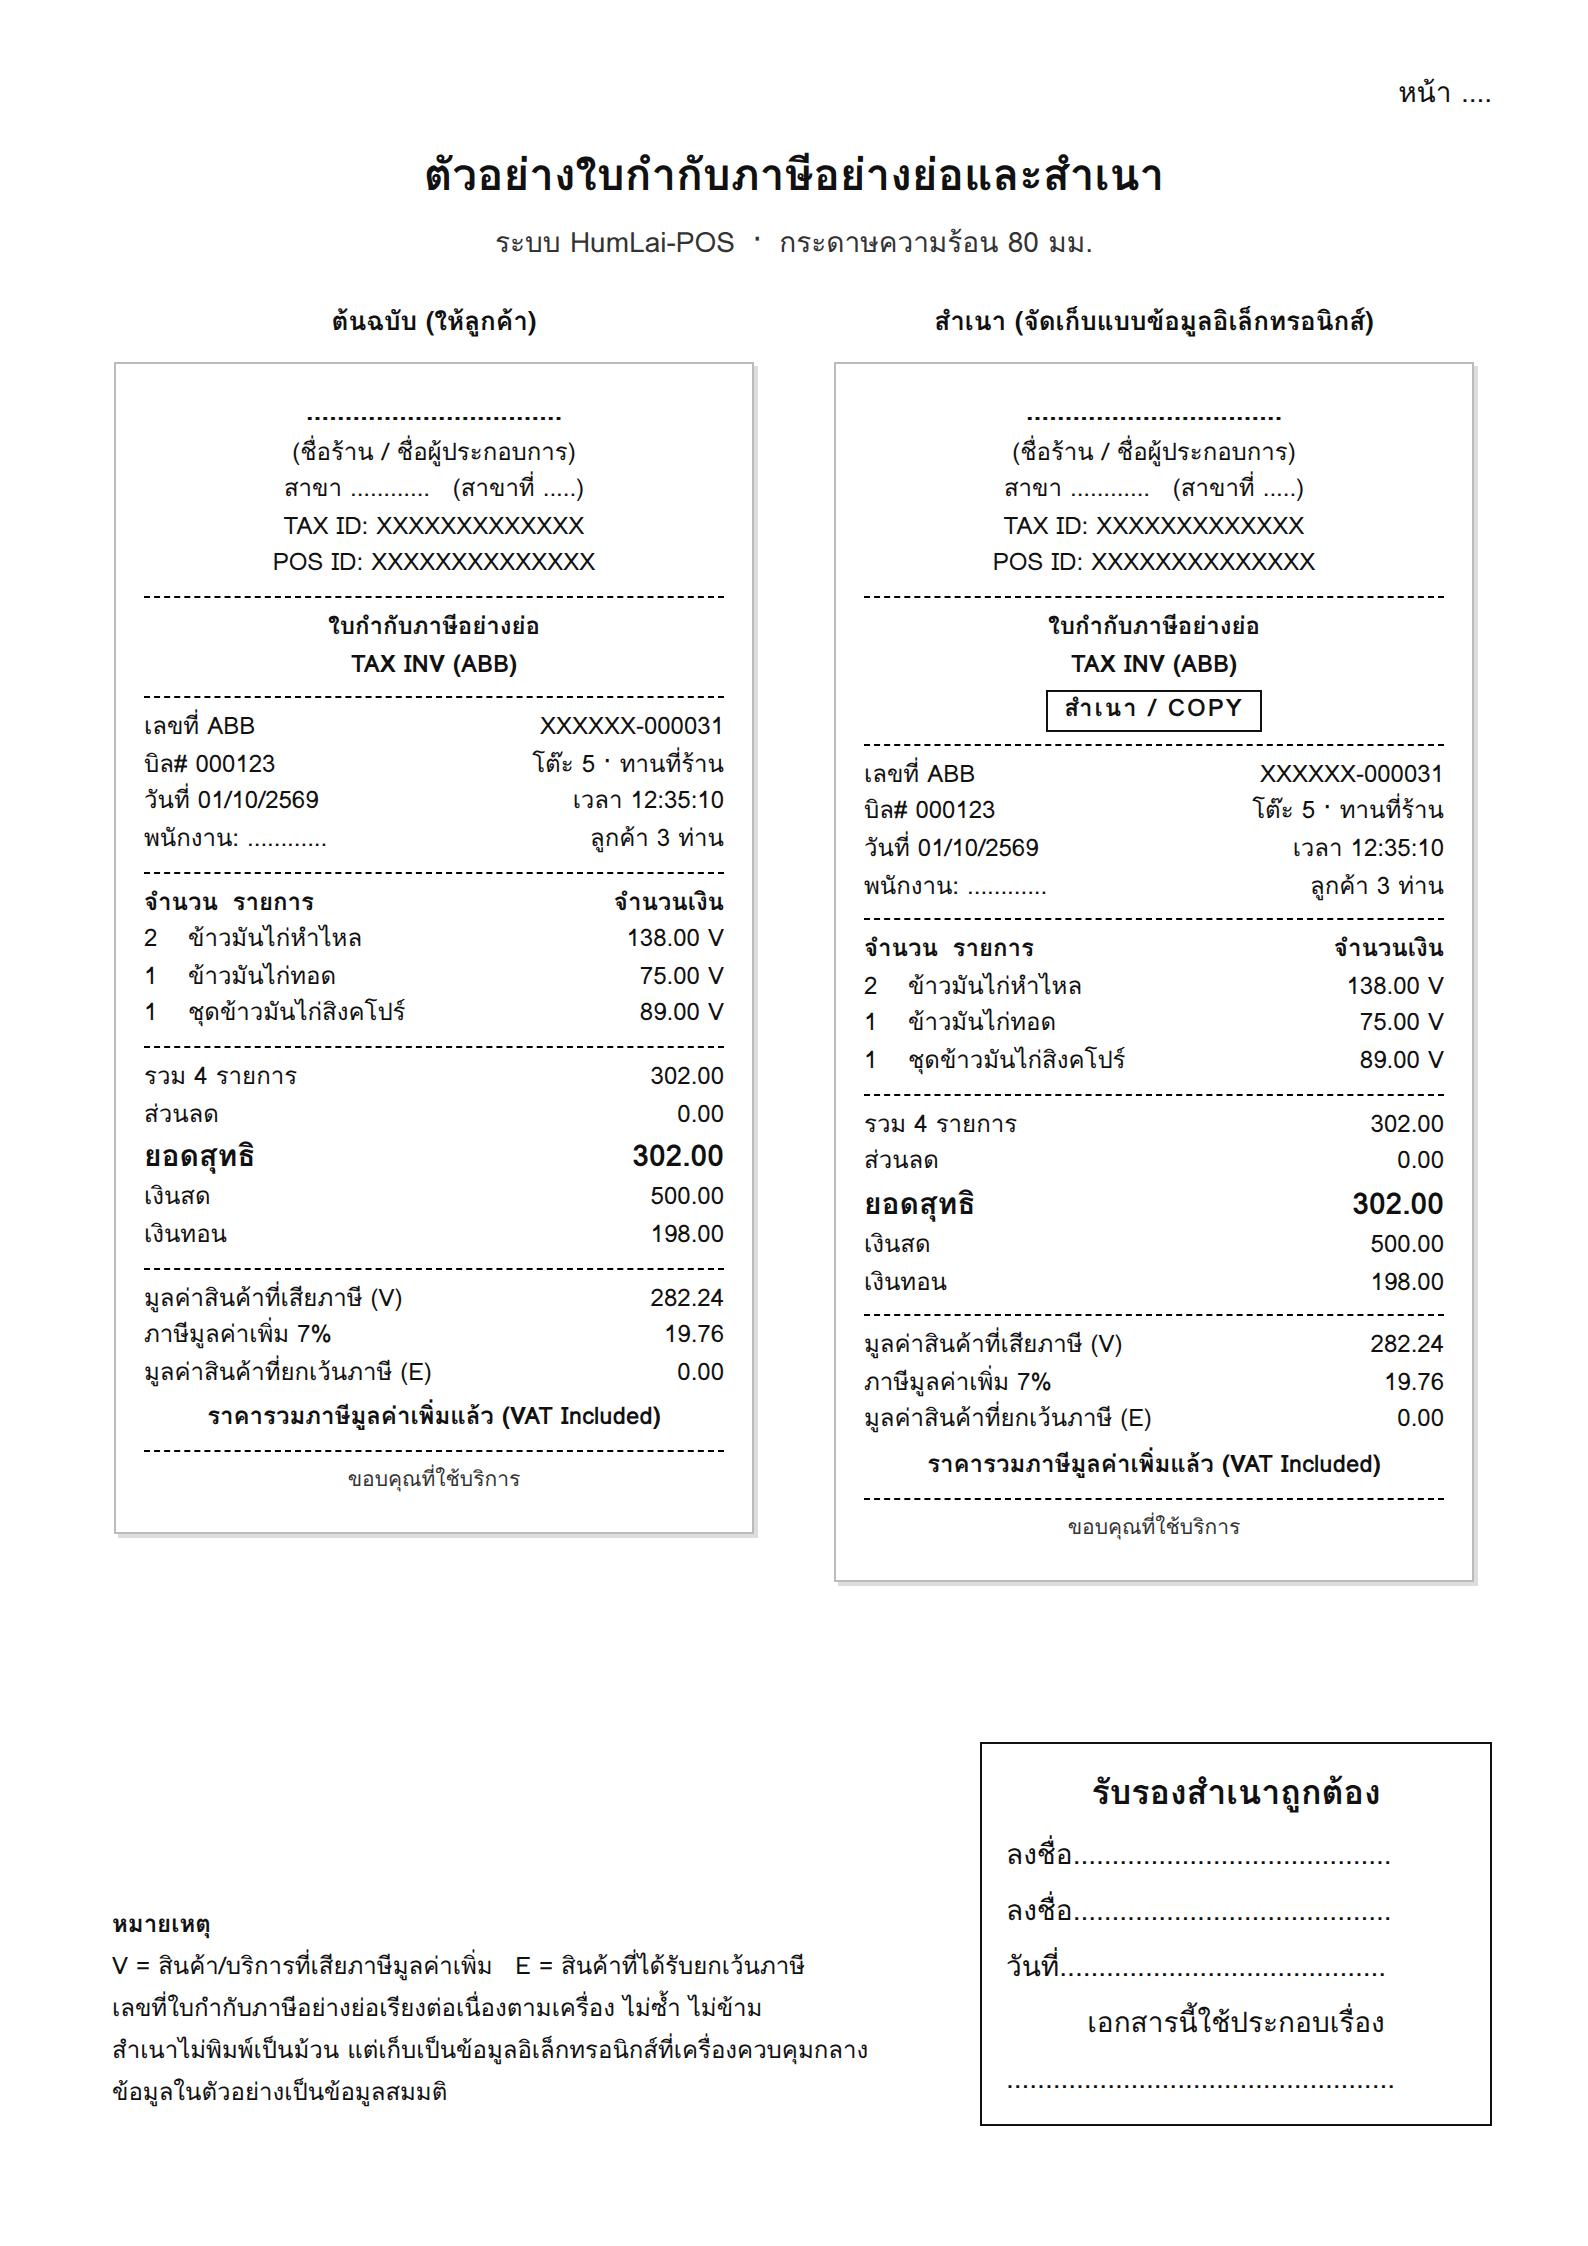
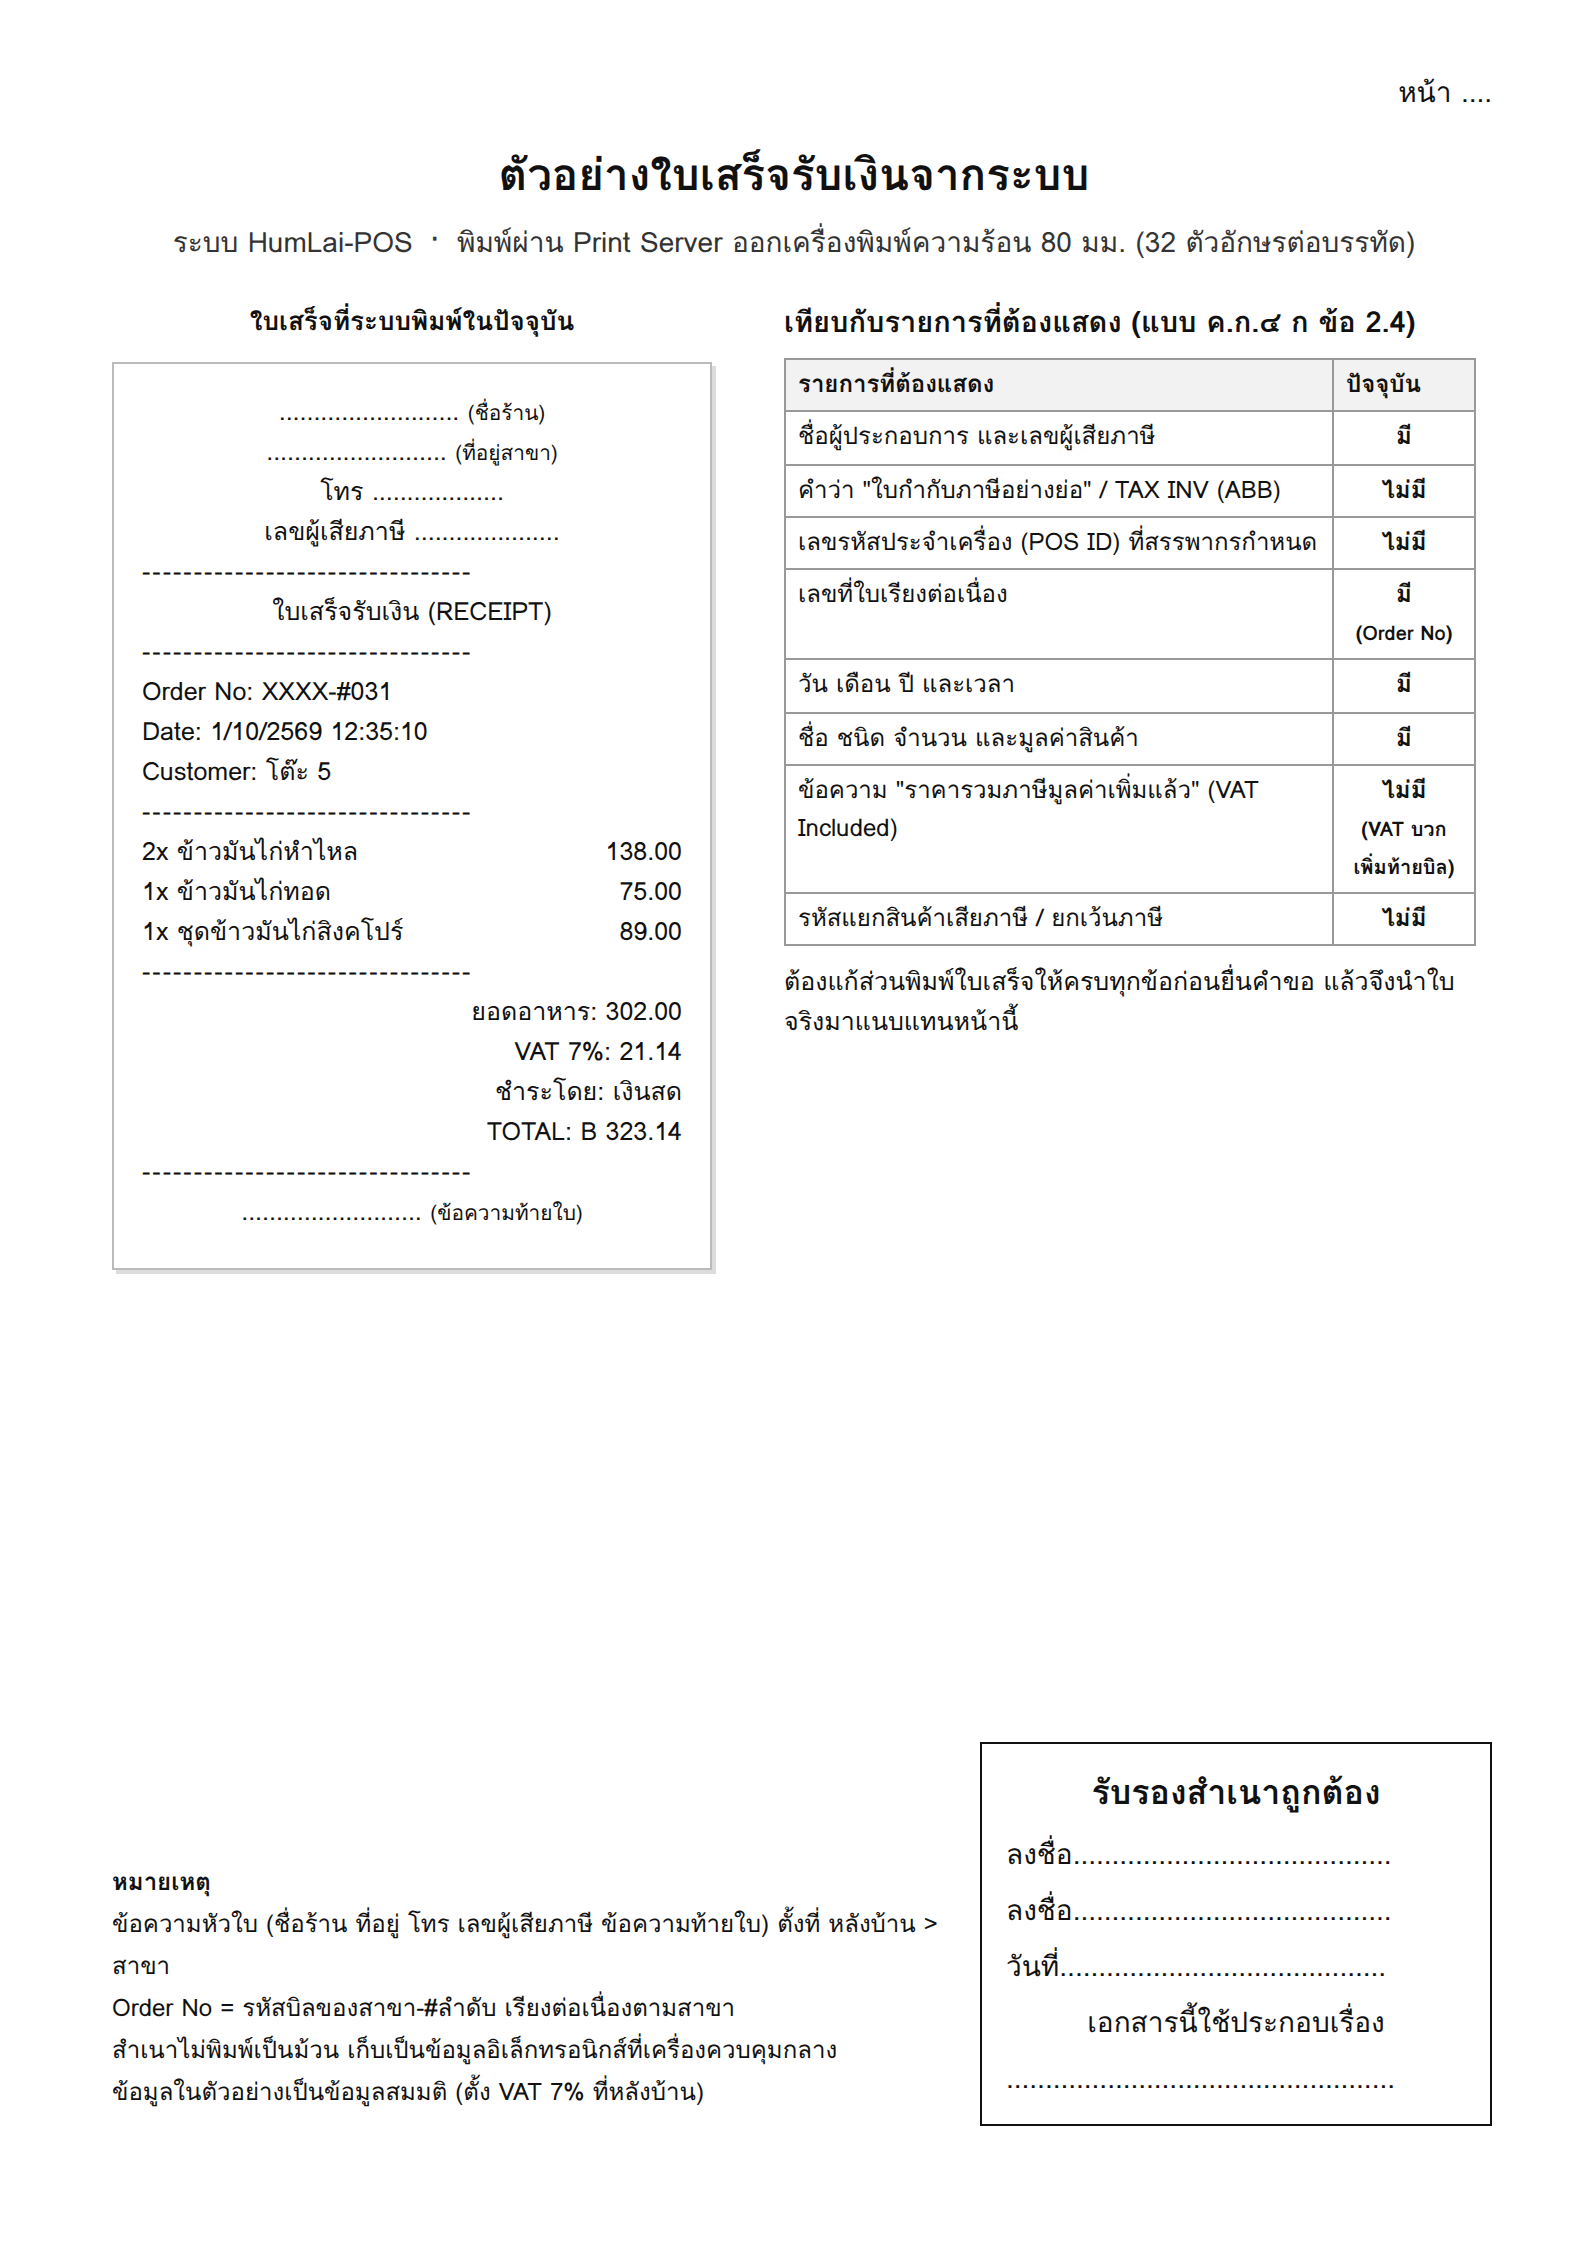
docs: หน้า 6 ใช้ใบเสร็จตามที่ระบบพิมพ์จริง พร้อมเทียบรายการที่สรรพากรกำหนด
Claude-Session: https://claude.ai/code/session_01VQ4Mtjw4DYg2T1hjZxri2n

diff --git a/docs/revenue-pp06/p06-abb-receipt.html b/docs/revenue-pp06/p06-abb-receipt.html
@@ -7,36 +7,52 @@
   .pg{position:absolute;top:36px;right:48px;font-size:14px}
   h1{font-size:22px;text-align:center;margin:0;padding-top:70px}
   .sub{text-align:center;font-size:14px;color:#333;margin-top:6px}
-  .wrap{position:absolute;top:150px;left:0;right:0;display:flex;justify-content:center;gap:40px}
+  .wrap{position:absolute;top:150px;left:56px;right:56px;display:flex;gap:36px;align-items:flex-start}
   .col{display:flex;flex-direction:column;align-items:center;gap:10px}
   .cap{font-size:13px;font-weight:700}
-  .slip{width:290px;border:1px solid #bbb;box-shadow:2px 2px 0 #ddd;padding:14px 14px 18px;font-size:12px;line-height:1.55}
-  .c{text-align:center}.b{font-weight:700}.lg{font-size:14px;font-weight:700}
+  .slip{width:270px;border:1px solid #bbb;box-shadow:2px 2px 0 #ddd;padding:14px 14px 18px;font-size:12.5px;line-height:1.6}
+  .c{text-align:center}.r{text-align:right}
   .row{display:flex;justify-content:space-between;gap:8px}
-  .hr{border-top:1px dashed #000;margin:6px 0}
-  .it .q{width:22px;display:inline-block}
-  .tot{font-size:15px;font-weight:700}
-  .sm{font-size:10.5px;color:#333}
-  .copy{border:1.5px solid #111;display:inline-block;padding:0 8px;font-weight:700;letter-spacing:1px}
+  .hr{overflow:hidden;white-space:nowrap;letter-spacing:1px}
+  .side{flex:1;font-size:12.5px;line-height:1.6}
+  .side h3{font-size:14.5px;margin:0 0 6px}
+  .side table{border-collapse:collapse;width:100%;font-size:12px}
+  .side td,.side th{border:1px solid #999;padding:3px 6px;vertical-align:top}
+  .side th{background:#f2f2f2;text-align:left}
+  .ok{text-align:center;font-weight:700}
   .cert{position:absolute;right:48px;bottom:60px;width:230px;border:1.5px solid #111;padding:8px 12px;font-size:14px;line-height:2}
   .cert b{display:block;text-align:center;font-size:17px}
   .note{position:absolute;left:56px;bottom:66px;width:430px;font-size:12px;line-height:1.75}
 </style></head><body>
 <div class="pg">หน้า ....</div>
-<h1>ตัวอย่างใบกำกับภาษีอย่างย่อและสำเนา</h1>
-<div class="sub">ระบบ HumLai-POS &nbsp;·&nbsp; กระดาษความร้อน 80 มม.</div>
+<h1>ตัวอย่างใบเสร็จรับเงินจากระบบ</h1>
+<div class="sub">ระบบ HumLai-POS &nbsp;·&nbsp; พิมพ์ผ่าน Print Server ออกเครื่องพิมพ์ความร้อน 80 มม. (32 ตัวอักษรต่อบรรทัด)</div>
 
 <div class="wrap">
-  <div class="col"><div class="cap">ต้นฉบับ (ให้ลูกค้า)</div><div class="slip" id="orig"></div></div>
-  <div class="col"><div class="cap">สำเนา (จัดเก็บแบบข้อมูลอิเล็กทรอนิกส์)</div><div class="slip" id="copy"></div></div>
+  <div class="col"><div class="cap">ใบเสร็จที่ระบบพิมพ์ในปัจจุบัน</div><div class="slip" id="slip"></div></div>
+  <div class="side">
+    <h3>เทียบกับรายการที่ต้องแสดง (แบบ ค.ก.๔ ก ข้อ 2.4)</h3>
+    <table>
+      <tr><th>รายการที่ต้องแสดง</th><th style="width:58px">ปัจจุบัน</th></tr>
+      <tr><td>ชื่อผู้ประกอบการ และเลขผู้เสียภาษี</td><td class="ok">มี</td></tr>
+      <tr><td>คำว่า "ใบกำกับภาษีอย่างย่อ" / TAX INV (ABB)</td><td class="ok">ไม่มี</td></tr>
+      <tr><td>เลขรหัสประจำเครื่อง (POS ID) ที่สรรพากรกำหนด</td><td class="ok">ไม่มี</td></tr>
+      <tr><td>เลขที่ใบเรียงต่อเนื่อง</td><td class="ok">มี<br><small>(Order No)</small></td></tr>
+      <tr><td>วัน เดือน ปี และเวลา</td><td class="ok">มี</td></tr>
+      <tr><td>ชื่อ ชนิด จำนวน และมูลค่าสินค้า</td><td class="ok">มี</td></tr>
+      <tr><td>ข้อความ "ราคารวมภาษีมูลค่าเพิ่มแล้ว" (VAT Included)</td><td class="ok">ไม่มี<br><small>(VAT บวกเพิ่มท้ายบิล)</small></td></tr>
+      <tr><td>รหัสแยกสินค้าเสียภาษี / ยกเว้นภาษี</td><td class="ok">ไม่มี</td></tr>
+    </table>
+    <p style="margin:8px 0 0">ต้องแก้ส่วนพิมพ์ใบเสร็จให้ครบทุกข้อก่อนยื่นคำขอ แล้วจึงนำใบจริงมาแนบแทนหน้านี้</p>
+  </div>
 </div>
 
 <div class="note">
   <b>หมายเหตุ</b><br>
-  V = สินค้า/บริการที่เสียภาษีมูลค่าเพิ่ม &nbsp; E = สินค้าที่ได้รับยกเว้นภาษี<br>
-  เลขที่ใบกำกับภาษีอย่างย่อเรียงต่อเนื่องตามเครื่อง ไม่ซ้ำ ไม่ข้าม<br>
-  สำเนาไม่พิมพ์เป็นม้วน แต่เก็บเป็นข้อมูลอิเล็กทรอนิกส์ที่เครื่องควบคุมกลาง<br>
-  ข้อมูลในตัวอย่างเป็นข้อมูลสมมติ
+  ข้อความหัวใบ (ชื่อร้าน ที่อยู่ โทร เลขผู้เสียภาษี ข้อความท้ายใบ) ตั้งที่ หลังบ้าน &gt; สาขา<br>
+  Order No = รหัสบิลของสาขา-#ลำดับ เรียงต่อเนื่องตามสาขา<br>
+  สำเนาไม่พิมพ์เป็นม้วน เก็บเป็นข้อมูลอิเล็กทรอนิกส์ที่เครื่องควบคุมกลาง<br>
+  ข้อมูลในตัวอย่างเป็นข้อมูลสมมติ (ตั้ง VAT 7% ที่หลังบ้าน)
 </div>
 <div class="cert"><b>รับรองสำเนาถูกต้อง</b>
 ลงชื่อ.........................................<br>
@@ -47,47 +63,37 @@
 </div>
 
 <script>
+// เลียนแบบ print-ticket.js (printerType = 'receipt') และ buildReceiptOrder() ใน CheckoutModal.jsx
 const items = [
   { q: 2, n: 'ข้าวมันไก่หำไหล', a: 138 },
   { q: 1, n: 'ข้าวมันไก่ทอด', a: 75 },
   { q: 1, n: 'ชุดข้าวมันไก่สิงคโปร์', a: 89 },
 ];
-const total = items.reduce((s, i) => s + i.a, 0);
-const vatable = Math.round(total / 1.07 * 100) / 100;
-const vat = Math.round((total - vatable) * 100) / 100;
+const subtotal = items.reduce((s, i) => s + i.a, 0);
+const vatRate = 7;
+const vat = Math.round(subtotal * vatRate) / 100;          // calcCharges(): VAT บวกเพิ่มจากยอดอาหาร
+const grand = subtotal + vat;
 const m = v => v.toLocaleString('en-US', { minimumFractionDigits: 2, maximumFractionDigits: 2 });
-const slip = isCopy => `
-  <div class="c lg">.................................</div>
-  <div class="c">(ชื่อร้าน / ชื่อผู้ประกอบการ)</div>
-  <div class="c">สาขา ............ &nbsp; (สาขาที่ .....)</div>
-  <div class="c">TAX ID: XXXXXXXXXXXXX</div>
-  <div class="c">POS ID: XXXXXXXXXXXXXX</div>
-  <div class="hr"></div>
-  <div class="c b">ใบกำกับภาษีอย่างย่อ</div>
-  <div class="c b">TAX INV (ABB)</div>
-  ${isCopy ? '<div class="c" style="margin-top:3px"><span class="copy">สำเนา / COPY</span></div>' : ''}
-  <div class="hr"></div>
-  <div class="row"><span>เลขที่ ABB</span><span>XXXXXX-000031</span></div>
-  <div class="row"><span>บิล# 000123</span><span>โต๊ะ 5 · ทานที่ร้าน</span></div>
-  <div class="row"><span>วันที่ 01/10/2569</span><span>เวลา 12:35:10</span></div>
-  <div class="row"><span>พนักงาน: ............</span><span>ลูกค้า 3 ท่าน</span></div>
-  <div class="hr"></div>
-  <div class="row b"><span>จำนวน &nbsp;รายการ</span><span>จำนวนเงิน</span></div>
-  ${items.map(i => `<div class="row it"><span><span class="q">${i.q}</span>${i.n}</span><span>${m(i.a)} V</span></div>`).join('')}
-  <div class="hr"></div>
-  <div class="row"><span>รวม ${items.reduce((s, i) => s + i.q, 0)} รายการ</span><span>${m(total)}</span></div>
-  <div class="row"><span>ส่วนลด</span><span>0.00</span></div>
-  <div class="row tot"><span>ยอดสุทธิ</span><span>${m(total)}</span></div>
-  <div class="row"><span>เงินสด</span><span>${m(500)}</span></div>
-  <div class="row"><span>เงินทอน</span><span>${m(500 - total)}</span></div>
-  <div class="hr"></div>
-  <div class="row"><span>มูลค่าสินค้าที่เสียภาษี (V)</span><span>${m(vatable)}</span></div>
-  <div class="row"><span>ภาษีมูลค่าเพิ่ม 7%</span><span>${m(vat)}</span></div>
-  <div class="row"><span>มูลค่าสินค้าที่ยกเว้นภาษี (E)</span><span>0.00</span></div>
-  <div class="c b" style="margin-top:4px">ราคารวมภาษีมูลค่าเพิ่มแล้ว (VAT Included)</div>
-  <div class="hr"></div>
-  <div class="c sm">ขอบคุณที่ใช้บริการ</div>`;
-document.getElementById('orig').innerHTML = slip(false);
-document.getElementById('copy').innerHTML = slip(true);
+const dash = '<div class="hr">' + '-'.repeat(32) + '</div>';
+document.getElementById('slip').innerHTML = `
+  <div class="c">.......................... <small>(ชื่อร้าน)</small></div>
+  <div class="c">.......................... <small>(ที่อยู่สาขา)</small></div>
+  <div class="c">โทร ...................</div>
+  <div class="c">เลขผู้เสียภาษี .....................</div>
+  ${dash}
+  <div class="c">ใบเสร็จรับเงิน (RECEIPT)</div>
+  ${dash}
+  <div>Order No: XXXX-#031</div>
+  <div>Date: 1/10/2569 12:35:10</div>
+  <div>Customer: โต๊ะ 5</div>
+  ${dash}
+  ${items.map(i => `<div class="row"><span>${i.q}x ${i.n}</span><span>${m(i.a)}</span></div>`).join('')}
+  ${dash}
+  <div class="r">ยอดอาหาร: ${m(subtotal)}</div>
+  <div class="r">VAT ${vatRate}%: ${m(vat)}</div>
+  <div class="r">ชำระโดย: เงินสด</div>
+  <div class="r">TOTAL: B ${m(grand)}</div>
+  ${dash}
+  <div class="c">.......................... <small>(ข้อความท้ายใบ)</small></div>`;
 </script>
 </body></html>
